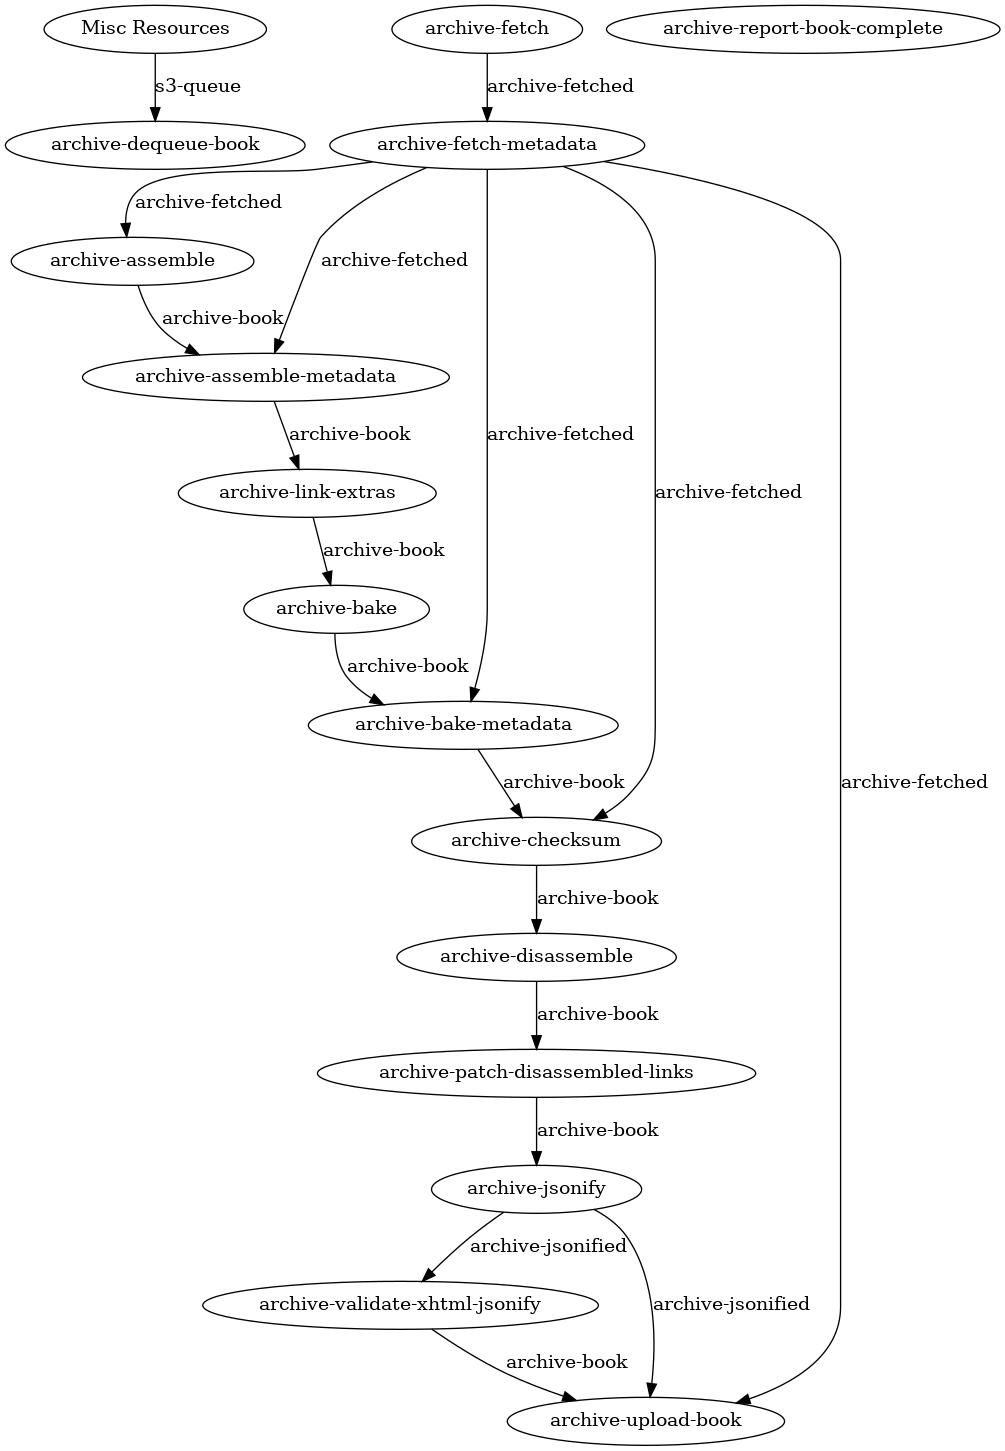
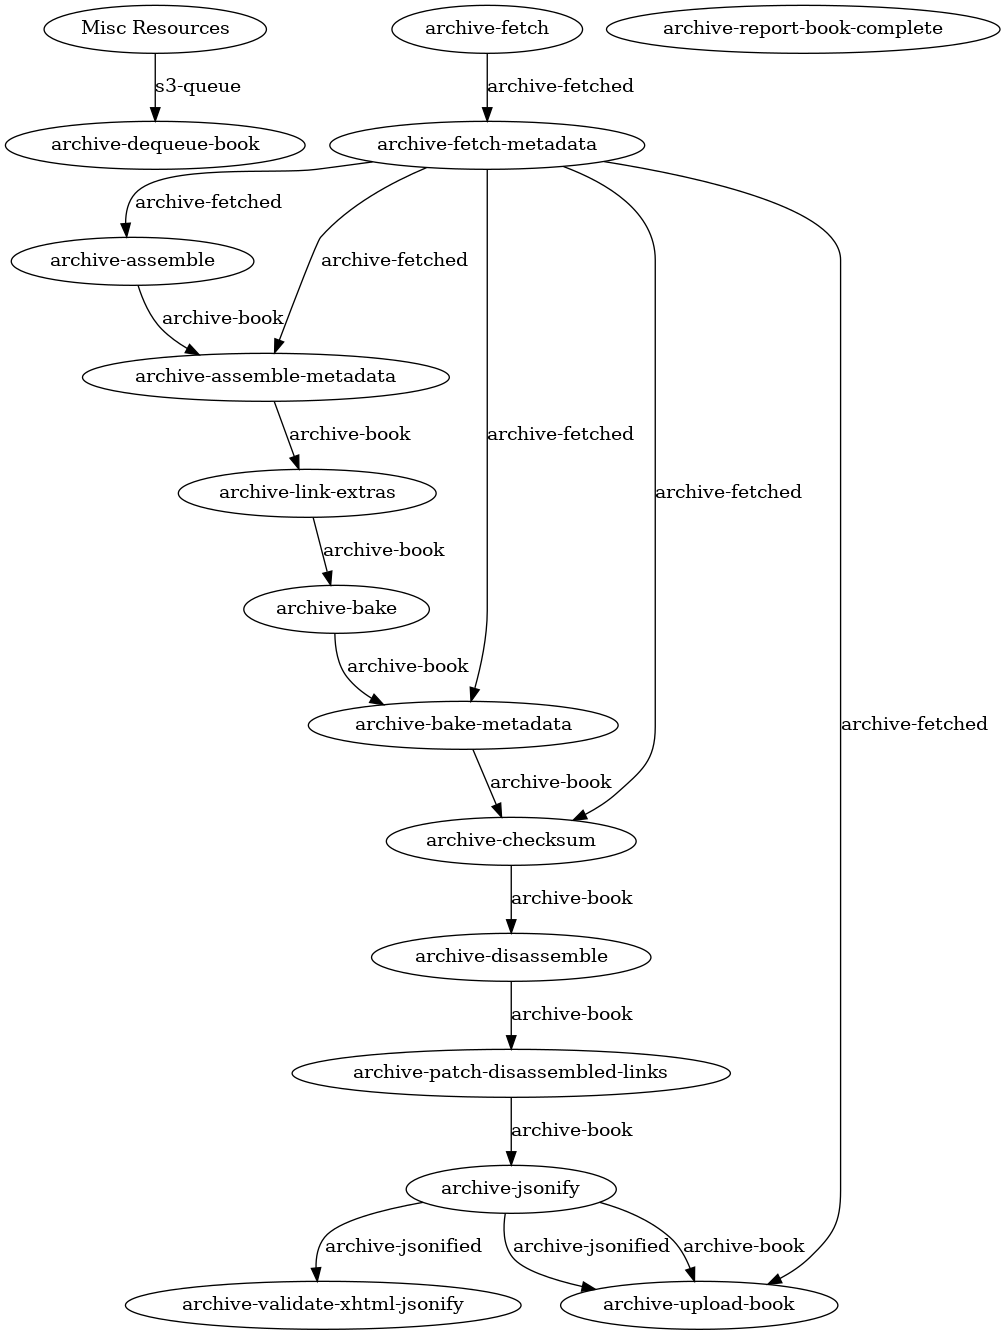
validation did not need the archive-book dir and since it was only an output dir, subsequent tasks received empty dir

diff --git a/build-concourse/step-definitions.ts b/build-concourse/step-definitions.ts
@@ -45,7 +45,7 @@ set({name: 'archive-checksum', inputs: [IO.BOOK, IO.ARCHIVE_BOOK, IO.ARCHIVE_FET
 set({name: 'archive-disassemble', inputs: [IO.BOOK, IO.ARCHIVE_BOOK], outputs: [IO.ARCHIVE_BOOK], env: {}})
 set({name: 'archive-patch-disassembled-links', inputs: [IO.BOOK, IO.ARCHIVE_BOOK], outputs: [IO.ARCHIVE_BOOK], env: {}})
 set({name: 'archive-jsonify', inputs: [IO.BOOK, IO.ARCHIVE_BOOK], outputs: [IO.ARCHIVE_BOOK, IO.ARCHIVE_JSONIFIED, IO.ARTIFACTS], env: {}})
-set({name: 'archive-validate-xhtml-jsonify', inputs: [IO.BOOK, IO.ARCHIVE_JSONIFIED], outputs: [IO.ARCHIVE_BOOK], env: {}})
+set({name: 'archive-validate-xhtml-jsonify', inputs: [IO.BOOK, IO.ARCHIVE_JSONIFIED], outputs: [], env: {}})
 
 // GIT_PDF_STEPS
 set({name: 'git-fetch', inputs: [IO.BOOK], outputs: [IO.FETCHED], env: {GH_SECRET_CREDS: false}})
